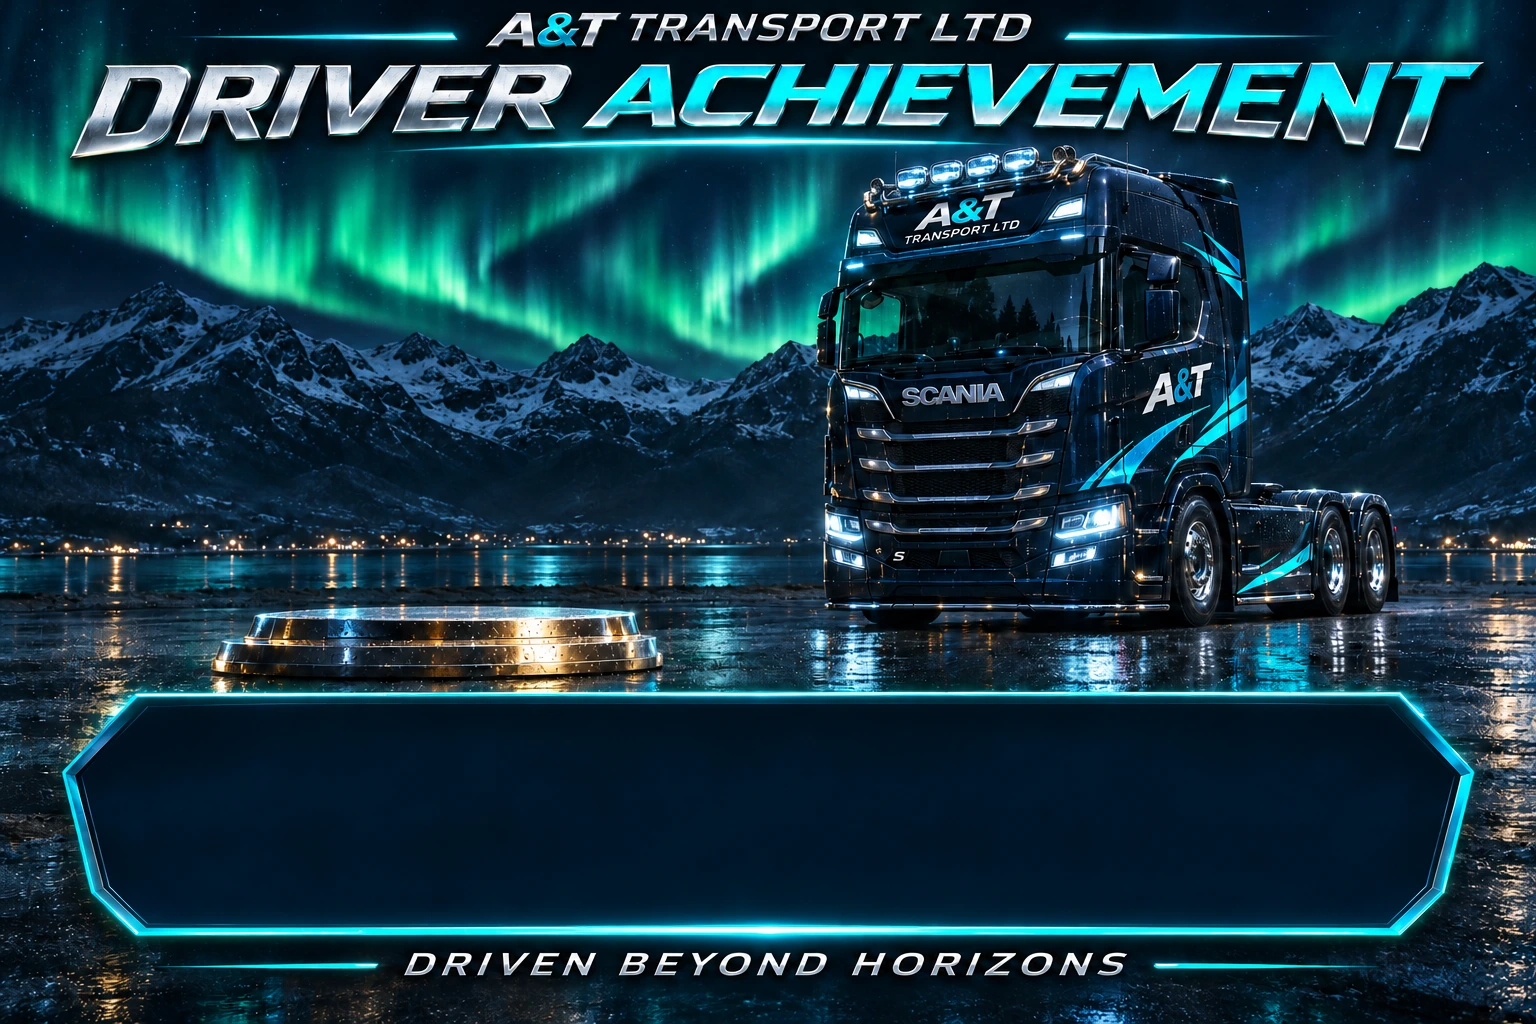
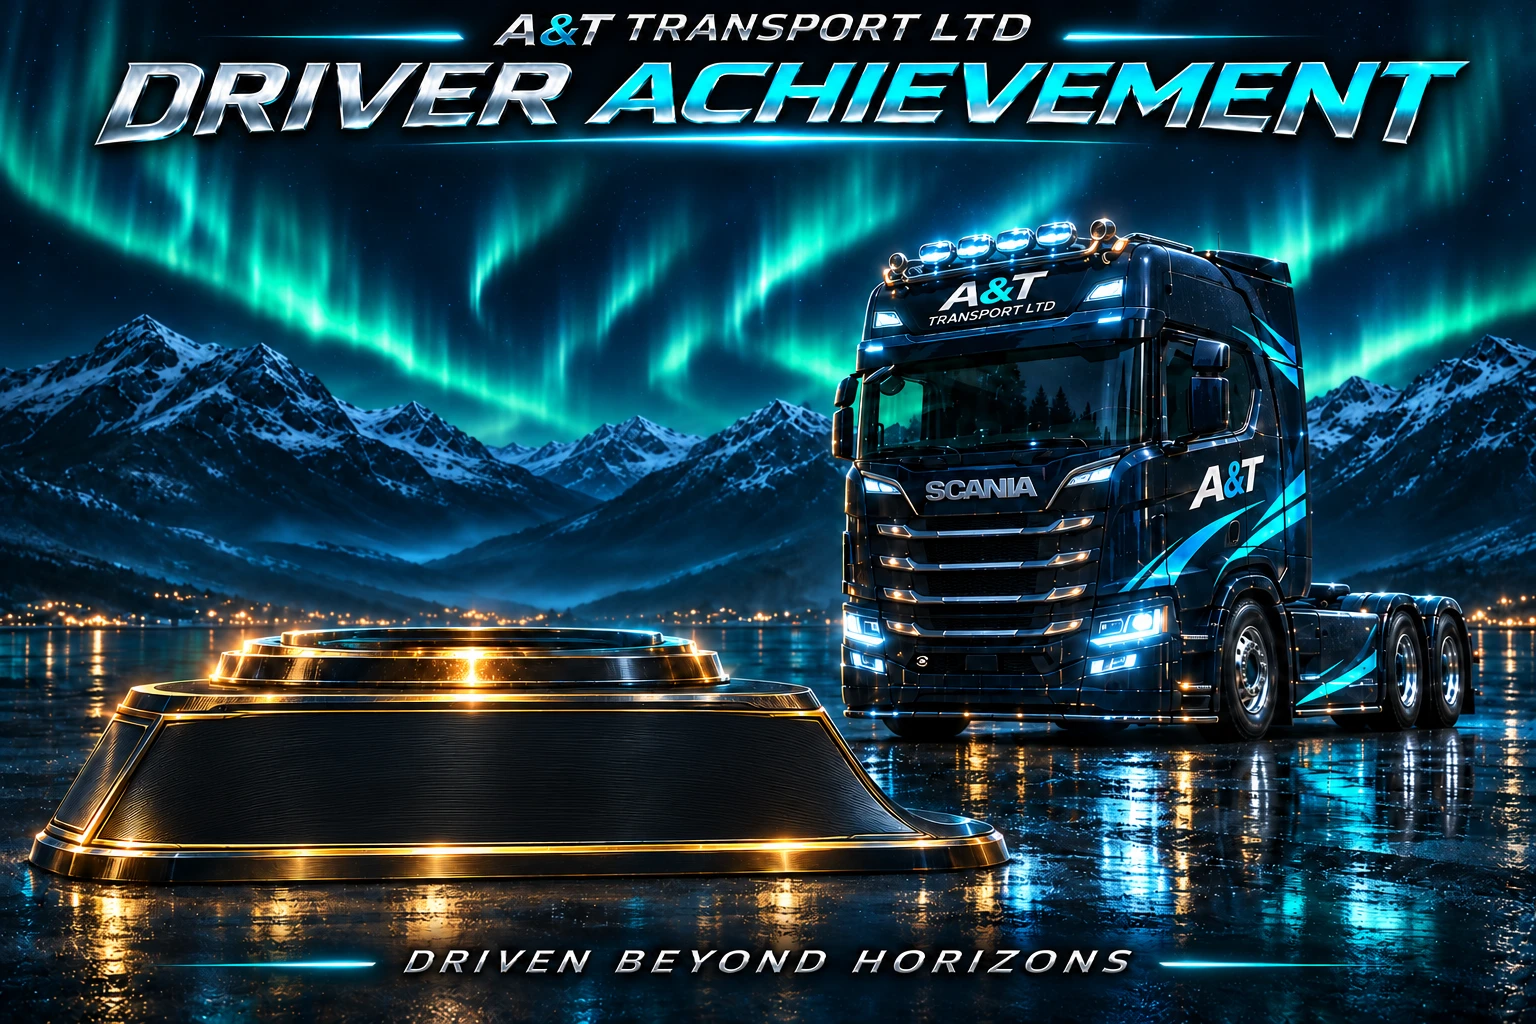
Render driver achievements on the trophy plinth

diff --git a/career_art.py b/career_art.py
@@ -88,24 +88,6 @@ def hall_of_fame(inductees):
     return encode(canvas)
 
 
-def achievement_nameplate(canvas, name, title, miles, *, permanent):
-    """Engrave the award and its threshold on a plate matched to the badge."""
-    accent = GOLD if permanent or miles == 50_000 else "#d59aff" if miles == 75_000 else BLUE
-    draw = ImageDraw.Draw(canvas)
-    outline = [(72, 779), (139, 704), (1397, 704), (1464, 779),
-               (1432, 886), (1392, 927), (144, 927), (104, 886)]
-    draw.polygon(outline, fill="#081827", outline=accent, width=4)
-    draw.line([(146, 716), (1390, 716)], fill="#30475a", width=2)
-    draw.line([(154, 913), (1382, 913)], fill="#30475a", width=2)
-    draw.line([(1017, 744), (1017, 889)], fill=accent, width=3)
-    draw.line([(152, 747), (222, 747)], fill=accent, width=4)
-
-    label(draw, (152, 793), name.upper(), 44, SILVER, width=810, anchor="lm")
-    label(draw, (152, 860), title.upper(), 68, accent, width=820, anchor="lm")
-    label(draw, (1214, 799), f"{miles:,}", 68, width=335, anchor="mm")
-    label(draw, (1214, 864), "REAL MILES", 38, SILVER, width=315, anchor="mm")
-
-
 def achievement(name, title, miles, *, permanent=False):
     with Image.open(CAREER_ART / "achievement.webp") as source:
         canvas = source.convert("RGB")
@@ -115,7 +97,12 @@ def achievement(name, title, miles, *, permanent=False):
             emblem = source.convert("RGBA")
     else:
         emblem = badge(miles, False)
-    emblem = ImageOps.contain(emblem, (450, 447), Image.Resampling.LANCZOS)
-    canvas.paste(emblem, (438 - emblem.width // 2, 624 - emblem.height), emblem)
-    achievement_nameplate(canvas, name, title, miles, permanent=permanent)
+    bounds = emblem.getbbox()
+    if bounds:
+        emblem = emblem.crop(bounds)
+    emblem = ImageOps.contain(emblem, (490, 460), Image.Resampling.LANCZOS)
+    canvas.paste(emblem, (475 - emblem.width // 2, 640 - emblem.height), emblem)
+    draw = ImageDraw.Draw(canvas)
+    label(draw, (491, 753), name.upper(), 61, SILVER, width=620, anchor="mm")
+    label(draw, (491, 811), f"{miles:,} REAL MILES", 49, GOLD, width=675, anchor="mm")
     return encode(canvas)

diff --git a/bot.py b/bot.py
@@ -1517,8 +1517,7 @@ def build_progression_milestone_embed(member, discord_user_id, milestone, real_m
     driver = member.mention if member else f"<@{discord_user_id}>"
     next_role = get_next_progression_role(real_miles)
     lines = [
-        f"{driver} earned **{milestone['rank']}** at **{milestone['miles']:,} Real Miles**.",
-        f"**{real_miles:,} Real Miles** total.",
+        f"Congratulations, {driver}! **{milestone['rank']}** earned at **{milestone['miles']:,} Real Miles**.",
     ]
     if next_role:
         next_miles, _, next_rank = next_role
@@ -1804,8 +1803,7 @@ def build_achievement_embed(member, discord_user_id, achievement, real_miles):
     threshold = achievement["miles"]
     driver = member.mention if member else f"<@{discord_user_id}>"
     lines = [
-        f"{driver} earned **{achievement['name']}** at **{threshold:,} Real Miles**.",
-        f"**{real_miles:,} Real Miles** total.",
+        f"Congratulations, {driver}! **{achievement['name']}** earned at **{threshold:,} Real Miles**.",
     ]
     hall_tier = get_hall_of_fame_tier(real_miles)
     if hall_tier and threshold in {250000, 500000, 1000000}:
